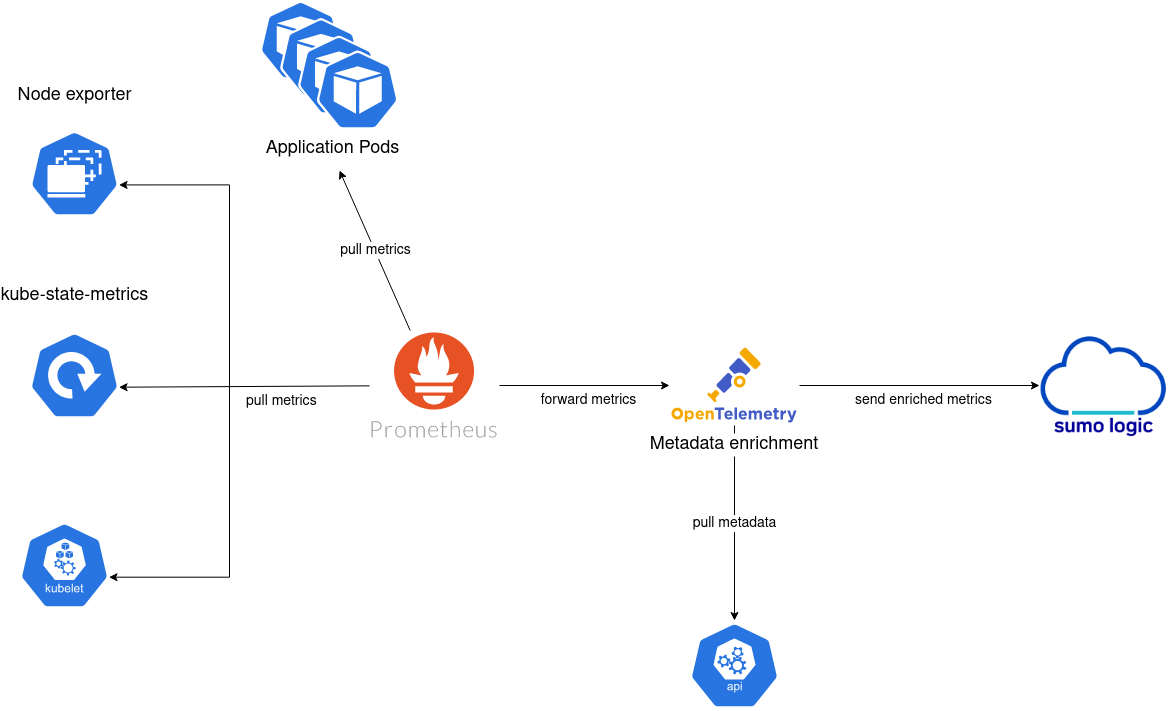
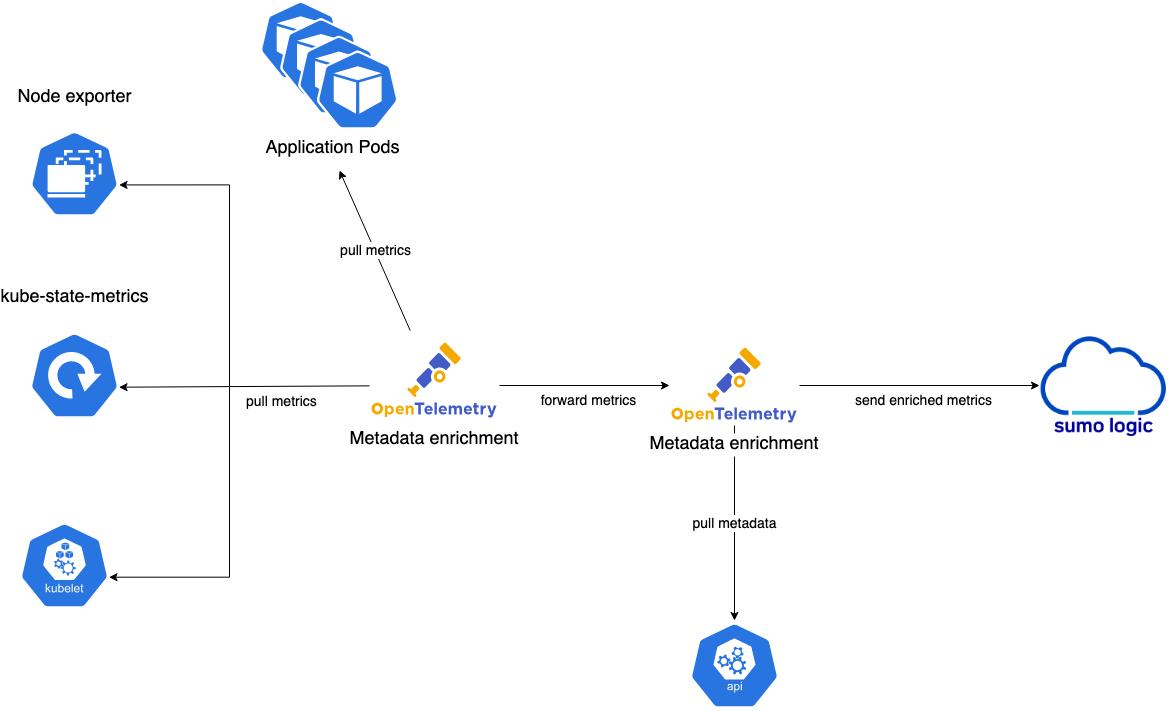
remove prometheus from images in documentation

diff --git a/README.md b/README.md
@@ -5,7 +5,7 @@ leverages [CNCF](https://www.cncf.io) supported technology including [OpenTeleme
 [Prometheus](https://prometheus.io) and [Falco](https://www.falco.org/) to collect logs, metrics and traces from Kubernetes clusters. The
 following diagram provides an overview of the collection process.
 
-![overview](/images/overview-v3.png)
+![overview](/images/overview-v4.png)
 
 ## Installation
 
